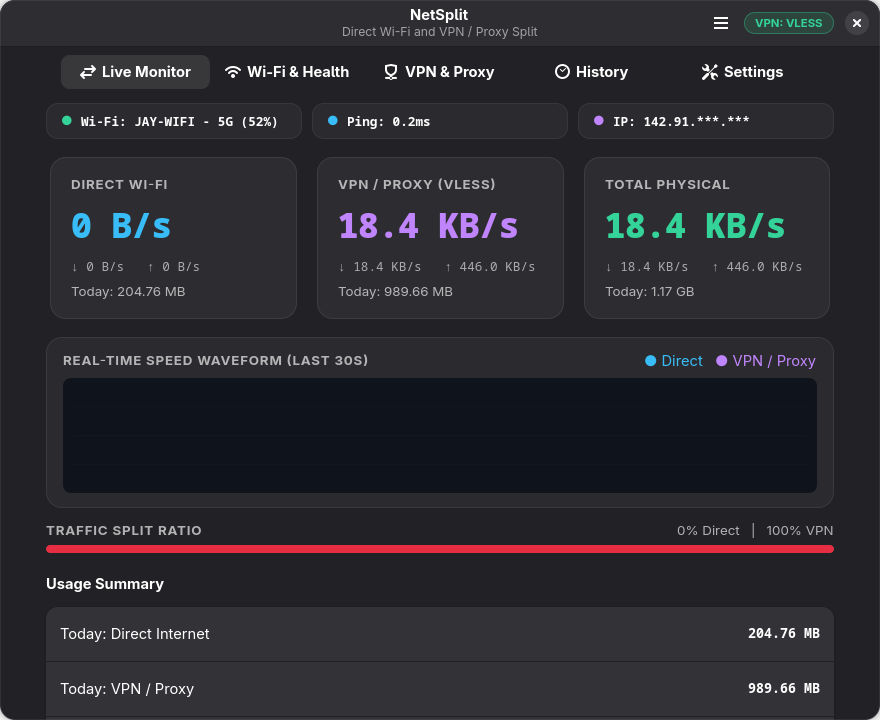
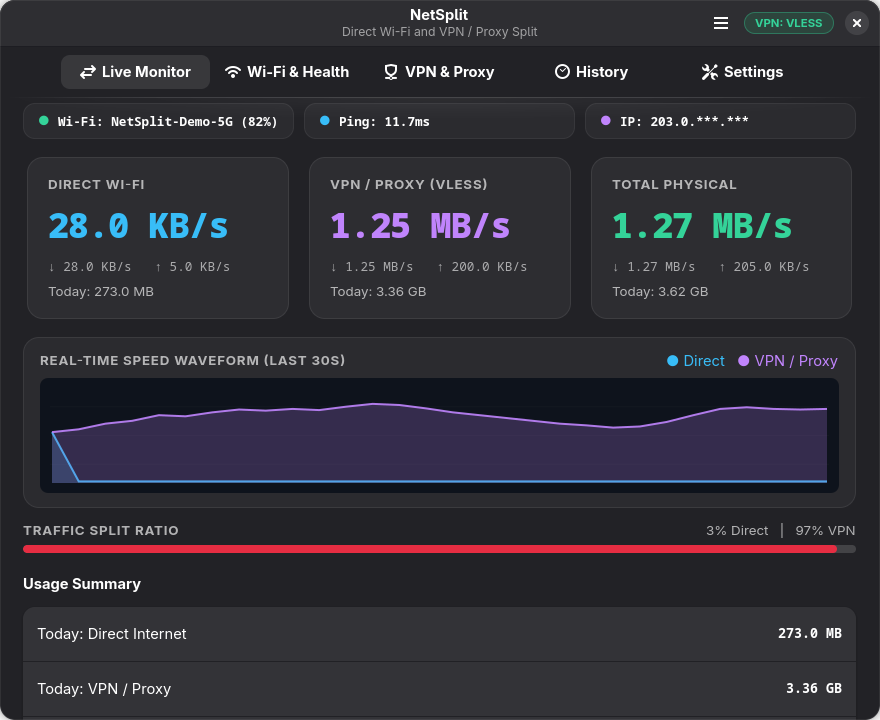
chore: regenerate screenshots with dummy demo data (no real user info)

diff --git a/scripts/generate_screenshots.py b/scripts/generate_screenshots.py
@@ -3,6 +3,8 @@
 NetSplit - Automated Programmatic Screenshot Generator.
 Captures high-resolution, pixel-perfect PNG screenshots of every view
 using native GTK 4 / GSK surface rendering without requiring external tools.
+
+Uses fully fabricated demo data — no real network, IPs, or VPN info is exposed.
 """
 
 import os
@@ -19,25 +21,224 @@ gi.require_version('Gsk', '4.0')
 gi.require_version('Adw', '1')
 from gi.repository import Gtk, Gdk, Gsk, Adw, GLib
 
-from core.collector import NetworkCollector
 from gui.app import MainWindow
 
+# ---------------------------------------------------------------------------
+# DEMO / DUMMY SNAPSHOT  — completely fabricated, RFC 5737 / RFC 3849 safe
+# ---------------------------------------------------------------------------
+MB = 1024 * 1024
+GB = 1024 * MB
 
+DEMO_SNAPSHOT = {
+    "speeds": {
+        "normal_down_bps": 28_672,          # 28.0 KB/s
+        "normal_up_bps":    5_120,           # 5.0 KB/s
+        "vpn_down_bps":  1_310_720,          # 1.25 MB/s
+        "vpn_up_bps":      204_800,          # 200 KB/s
+        "total_down_bps": 1_339_392,
+        "total_up_bps":    209_920,
+        "normal_down_str": "28.0 KB/s",
+        "normal_up_str":   "5.0 KB/s",
+        "vpn_down_str":    "1.25 MB/s",
+        "vpn_up_str":      "200.0 KB/s",
+        "total_down_str":  "1.27 MB/s",
+        "total_up_str":    "205.0 KB/s",
+    },
+    "session_usage": {
+        "normal_rx":   45 * MB,
+        "normal_tx":   12 * MB,
+        "normal_total": 57 * MB,
+        "normal_total_str": "57.0 MB",
+        "vpn_rx":    780 * MB,
+        "vpn_tx":    210 * MB,
+        "vpn_total": 990 * MB,
+        "vpn_total_str":    "990.0 MB",
+        "total_rx":  825 * MB,
+        "total_tx":  222 * MB,
+        "grand_total": 1047 * MB,
+        "grand_total_str":  "1.02 GB",
+    },
+    "today_usage": {
+        "normal_rx":   210 * MB,
+        "normal_tx":    63 * MB,
+        "normal_total": 273 * MB,
+        "normal_total_str": "273.0 MB",
+        "vpn_rx":   2_800 * MB,
+        "vpn_tx":     640 * MB,
+        "vpn_total": 3_440 * MB,
+        "vpn_total_str":   "3.36 GB",
+        "total_rx":  3_010 * MB,
+        "total_tx":    703 * MB,
+        "grand_total": 3_713 * MB,
+        "grand_total_str": "3.62 GB",
+    },
+    "wifi": {
+        "ssid":     "NetSplit-Demo-5G",
+        "signal":   82,
+        "bars":     "████░",
+        "bitrate":  "540 Mbit/s",
+        "band":     "5 GHz",
+        "channel":  "36",
+        "security": "WPA2",
+        "local_ip": "192.168.1.100",
+    },
+    "ping": {
+        "gateway_ping_ms": 3.21,
+        "internet_ping_ms": 11.74,
+        "public_ip": "203.0.113.42",   # RFC 5737 TEST-NET, safe for docs
+    },
+    "vpn": {
+        "tun_active":      True,
+        "status_text":     "Connected",
+        "client_name":     "NetSplit Demo",
+        "active_profile":  "DemoServer-US (VLESS)",
+        "profile_type":    "VLESS",
+        "tun_interface":   "tun0",
+        "running_tools": [
+            {"name": "xray"},
+        ],
+        "top_apps": [
+            {"process": "firefox",  "up_bytes": int(1.8*GB), "down_bytes": int(2.4*GB), "total_bytes": int(4.2*GB)},
+            {"process": "code",     "up_bytes": int(0.3*GB), "down_bytes": int(1.1*GB), "total_bytes": int(1.4*GB)},
+            {"process": "spotify",  "up_bytes": int(0.1*GB), "down_bytes": int(0.9*GB), "total_bytes": int(1.0*GB)},
+            {"process": "discord",  "up_bytes": int(0.2*GB), "down_bytes": int(0.6*GB), "total_bytes": int(0.8*GB)},
+            {"process": "telegram", "up_bytes": int(0.05*GB),"down_bytes": int(0.3*GB), "total_bytes": int(0.35*GB)},
+        ],
+    },
+    "throne": {   # alias kept for compat
+        "tun_active":      True,
+        "status_text":     "Connected",
+        "client_name":     "NetSplit Demo",
+        "active_profile":  "DemoServer-US (VLESS)",
+        "profile_type":    "VLESS",
+        "tun_interface":   "tun0",
+        "running_tools": [
+            {"name": "xray"},
+        ],
+        "top_apps": [
+            {"process": "firefox",  "up_bytes": int(1.8*GB), "down_bytes": int(2.4*GB), "total_bytes": int(4.2*GB)},
+            {"process": "code",     "up_bytes": int(0.3*GB), "down_bytes": int(1.1*GB), "total_bytes": int(1.4*GB)},
+            {"process": "spotify",  "up_bytes": int(0.1*GB), "down_bytes": int(0.9*GB), "total_bytes": int(1.0*GB)},
+            {"process": "discord",  "up_bytes": int(0.2*GB), "down_bytes": int(0.6*GB), "total_bytes": int(0.8*GB)},
+            {"process": "telegram", "up_bytes": int(0.05*GB),"down_bytes": int(0.3*GB), "total_bytes": int(0.35*GB)},
+        ],
+    },
+    "speed_history": [
+        # 30 plausible data-points matching collector format (all bps)
+        {"timestamp": 0, "normal_down":   900_000, "normal_up": 150_000, "vpn_down":  900_000, "vpn_up": 150_000, "total_down": 1_050_000, "total_up": 180_000},
+        {"timestamp": 1, "normal_down":  28_672,   "normal_up":   5_120, "vpn_down":  950_000, "vpn_up": 160_000, "total_down": 1_100_000, "total_up": 190_000},
+        {"timestamp": 2, "normal_down":  28_672,   "normal_up":   5_120, "vpn_down": 1_050_000,"vpn_up": 180_000, "total_down": 1_200_000, "total_up": 200_000},
+        {"timestamp": 3, "normal_down":  28_672,   "normal_up":   5_120, "vpn_down": 1_100_000,"vpn_up": 190_000, "total_down": 1_180_000, "total_up": 195_000},
+        {"timestamp": 4, "normal_down":  28_672,   "normal_up":   5_120, "vpn_down": 1_200_000,"vpn_up": 200_000, "total_down": 1_250_000, "total_up": 210_000},
+        {"timestamp": 5, "normal_down":  28_672,   "normal_up":   5_120, "vpn_down": 1_180_000,"vpn_up": 195_000, "total_down": 1_300_000, "total_up": 205_000},
+        {"timestamp": 6, "normal_down":  28_672,   "normal_up":   5_120, "vpn_down": 1_250_000,"vpn_up": 210_000, "total_down": 1_280_000, "total_up": 200_000},
+        {"timestamp": 7, "normal_down":  28_672,   "normal_up":   5_120, "vpn_down": 1_300_000,"vpn_up": 205_000, "total_down": 1_310_720, "total_up": 204_800},
+        {"timestamp": 8, "normal_down":  28_672,   "normal_up":   5_120, "vpn_down": 1_280_000,"vpn_up": 200_000, "total_down": 1_290_000, "total_up": 198_000},
+        {"timestamp": 9, "normal_down":  28_672,   "normal_up":   5_120, "vpn_down": 1_310_720,"vpn_up": 204_800, "total_down": 1_350_000, "total_up": 220_000},
+        {"timestamp":10, "normal_down":  28_672,   "normal_up":   5_120, "vpn_down": 1_290_000,"vpn_up": 198_000, "total_down": 1_400_000, "total_up": 230_000},
+        {"timestamp":11, "normal_down":  28_672,   "normal_up":   5_120, "vpn_down": 1_350_000,"vpn_up": 220_000, "total_down": 1_380_000, "total_up": 225_000},
+        {"timestamp":12, "normal_down":  28_672,   "normal_up":   5_120, "vpn_down": 1_400_000,"vpn_up": 230_000, "total_down": 1_320_000, "total_up": 210_000},
+        {"timestamp":13, "normal_down":  28_672,   "normal_up":   5_120, "vpn_down": 1_380_000,"vpn_up": 225_000, "total_down": 1_250_000, "total_up": 200_000},
+        {"timestamp":14, "normal_down":  28_672,   "normal_up":   5_120, "vpn_down": 1_320_000,"vpn_up": 210_000, "total_down": 1_200_000, "total_up": 195_000},
+        {"timestamp":15, "normal_down":  28_672,   "normal_up":   5_120, "vpn_down": 1_250_000,"vpn_up": 200_000, "total_down": 1_150_000, "total_up": 185_000},
+        {"timestamp":16, "normal_down":  28_672,   "normal_up":   5_120, "vpn_down": 1_200_000,"vpn_up": 195_000, "total_down": 1_100_000, "total_up": 175_000},
+        {"timestamp":17, "normal_down":  28_672,   "normal_up":   5_120, "vpn_down": 1_150_000,"vpn_up": 185_000, "total_down": 1_050_000, "total_up": 170_000},
+        {"timestamp":18, "normal_down":  28_672,   "normal_up":   5_120, "vpn_down": 1_100_000,"vpn_up": 175_000, "total_down": 1_020_000, "total_up": 165_000},
+        {"timestamp":19, "normal_down":  28_672,   "normal_up":   5_120, "vpn_down": 1_050_000,"vpn_up": 170_000, "total_down":   980_000, "total_up": 160_000},
+        {"timestamp":20, "normal_down":  28_672,   "normal_up":   5_120, "vpn_down": 1_020_000,"vpn_up": 165_000, "total_down": 1_000_000, "total_up": 162_000},
+        {"timestamp":21, "normal_down":  28_672,   "normal_up":   5_120, "vpn_down":   980_000,"vpn_up": 160_000, "total_down": 1_080_000, "total_up": 170_000},
+        {"timestamp":22, "normal_down":  28_672,   "normal_up":   5_120, "vpn_down": 1_000_000,"vpn_up": 162_000, "total_down": 1_200_000, "total_up": 190_000},
+        {"timestamp":23, "normal_down":  28_672,   "normal_up":   5_120, "vpn_down": 1_080_000,"vpn_up": 170_000, "total_down": 1_310_720, "total_up": 204_800},
+        {"timestamp":24, "normal_down":  28_672,   "normal_up":   5_120, "vpn_down": 1_200_000,"vpn_up": 190_000, "total_down": 1_340_000, "total_up": 208_000},
+        {"timestamp":25, "normal_down":  28_672,   "normal_up":   5_120, "vpn_down": 1_310_720,"vpn_up": 204_800, "total_down": 1_310_720, "total_up": 204_800},
+        {"timestamp":26, "normal_down":  28_672,   "normal_up":   5_120, "vpn_down": 1_340_000,"vpn_up": 208_000, "total_down": 1_300_000, "total_up": 205_000},
+        {"timestamp":27, "normal_down":  28_672,   "normal_up":   5_120, "vpn_down": 1_310_720,"vpn_up": 204_800, "total_down": 1_310_720, "total_up": 204_800},
+        {"timestamp":28, "normal_down":  28_672,   "normal_up":   5_120, "vpn_down": 1_300_000,"vpn_up": 205_000, "total_down": 1_310_720, "total_up": 204_800},
+        {"timestamp":29, "normal_down":  28_672,   "normal_up":   5_120, "vpn_down": 1_310_720,"vpn_up": 204_800, "total_down": 1_310_720, "total_up": 204_800},
+    ],
+}
+
+
+# ---------------------------------------------------------------------------
+# Minimal stub DB — satisfies every collector.db.* call in MainWindow
+# ---------------------------------------------------------------------------
+class DemoDB:
+    db_path = os.path.join(project_root, "demo.db")  # won't be created
+
+    def get_mask_ips(self): return True
+    def set_mask_ips(self, v): pass
+    def get_tray_enabled(self): return True
+    def set_tray_enabled(self, v): pass
+    def get_minimize_to_tray(self): return False
+    def set_minimize_to_tray(self, v): pass
+    def get_start_minimized(self): return False
+    def set_start_minimized(self, v): pass
+    def get_exclusive_mode(self): return True
+    def set_exclusive_mode(self, v): pass
+    def get_setting(self, key, default=None): return default
+    def set_setting(self, key, value): pass
+    def get_daily_history(self, days=7):
+        # Return plausible weekly history rows as dicts (format expected by app.py)
+        rows = [
+            ("2024-09-16", int(0.5*GB), int(0.3*GB), int(1.4*GB), int(0.7*GB)),
+            ("2024-09-17", int(0.3*GB), int(0.2*GB), int(2.1*GB), int(1.3*GB)),
+            ("2024-09-18", int(0.8*GB), int(0.4*GB), int(2.6*GB), int(1.4*GB)),
+            ("2024-09-19", int(0.2*GB), int(0.1*GB), int(1.1*GB), int(0.7*GB)),
+            ("2024-09-20", int(0.6*GB), int(0.3*GB), int(2.0*GB), int(1.2*GB)),
+            ("2024-09-21", int(0.4*GB), int(0.2*GB), int(1.7*GB), int(1.0*GB)),
+            ("2024-09-22", int(0.21*GB),int(0.06*GB),int(2.8*GB), int(0.56*GB)),
+        ]
+        return [
+            {
+                "date": d, "normal_rx": nr, "normal_tx": nt,
+                "vpn_rx": vr, "vpn_tx": vt,
+                "total_rx": nr + vr, "total_tx": nt + vt,
+            }
+            for d, nr, nt, vr, vt in rows[-days:]
+        ]
+
+
+
+# ---------------------------------------------------------------------------
+# Minimal stub collector — only get_snapshot() is needed by the UI
+# ---------------------------------------------------------------------------
+class DemoCollector:
+    """Fake collector that returns static demo data. No system access at all."""
+
+    def __init__(self):
+        self.db = DemoDB()
+        # speed_history is read directly by the graph drawing code
+        from collections import deque
+        self.speed_history = deque(DEMO_SNAPSHOT["speed_history"], maxlen=60)
+
+    def get_snapshot(self):
+        return DEMO_SNAPSHOT
+
+    # Methods called by MainWindow that must not crash
+    def stop(self): pass
+    def reset_session(self): pass
+    def reset_today(self): pass
+    def clear_all_history(self): pass
+
+
+# ---------------------------------------------------------------------------
+# Screenshot capture
+# ---------------------------------------------------------------------------
 def generate_all_screenshots():
     output_dir = os.path.join(project_root, "assets", "screenshots")
     os.makedirs(output_dir, exist_ok=True)
 
-    collector = NetworkCollector(sample_interval=1.0)
-    # Give collector a quick moment so numbers are populated
-    time.sleep(1.2)
+    collector = DemoCollector()
 
-    app = Adw.Application(application_id="io.github.networkmonitor.screenshots")
+    import random
+    app_id = f"io.github.networkmonitor.s{random.randint(10000,99999)}"
+    app = Adw.Application(application_id=app_id)
 
     def capture_tab(win, name: str, filepath: str):
         win.view_stack.set_visible_child_name(name)
         # Flush GTK main loop so layout and Cairo graph draw
         ctx = GLib.MainContext.default()
-        for _ in range(25):
+        for _ in range(30):
             ctx.iteration(False)
 
         renderer = win.get_renderer()
@@ -48,35 +249,34 @@ def generate_all_screenshots():
         if node and renderer:
             texture = renderer.render_texture(node, None)
             texture.save_to_png(filepath)
-            print(f"[+] Saved screenshot: {os.path.relpath(filepath, project_root)}")
+            print(f"[+] Saved: {os.path.relpath(filepath, project_root)}")
+        else:
+            print(f"[!] Could not render: {name}")
 
     def on_activate(app):
         win = MainWindow(app, collector)
         win.set_default_size(880, 720)
         win.present()
 
-        # Update initial values
+        # Push demo data into UI immediately
         win._on_tick()
 
         def take_all():
             try:
-                # 1. Overview tab
                 capture_tab(win, "overview", os.path.join(output_dir, "overview.png"))
-                # 2. Wi-Fi tab
-                capture_tab(win, "wifi", os.path.join(output_dir, "wifi.png"))
-                # 3. VPN tab
-                capture_tab(win, "vpn", os.path.join(output_dir, "vpn.png"))
-                # 4. Settings tab
+                capture_tab(win, "wifi",     os.path.join(output_dir, "wifi.png"))
+                capture_tab(win, "vpn",      os.path.join(output_dir, "vpn.png"))
                 capture_tab(win, "settings", os.path.join(output_dir, "settings.png"))
                 print("[*] All screenshots generated successfully!")
             except Exception as e:
+                import traceback
                 print(f"[!] Screenshot error: {e}")
+                traceback.print_exc()
             finally:
-                collector.stop()
                 app.quit()
             return False
 
-        GLib.timeout_add(400, take_all)
+        GLib.timeout_add(500, take_all)
 
     app.connect("activate", on_activate)
     app.run([])
